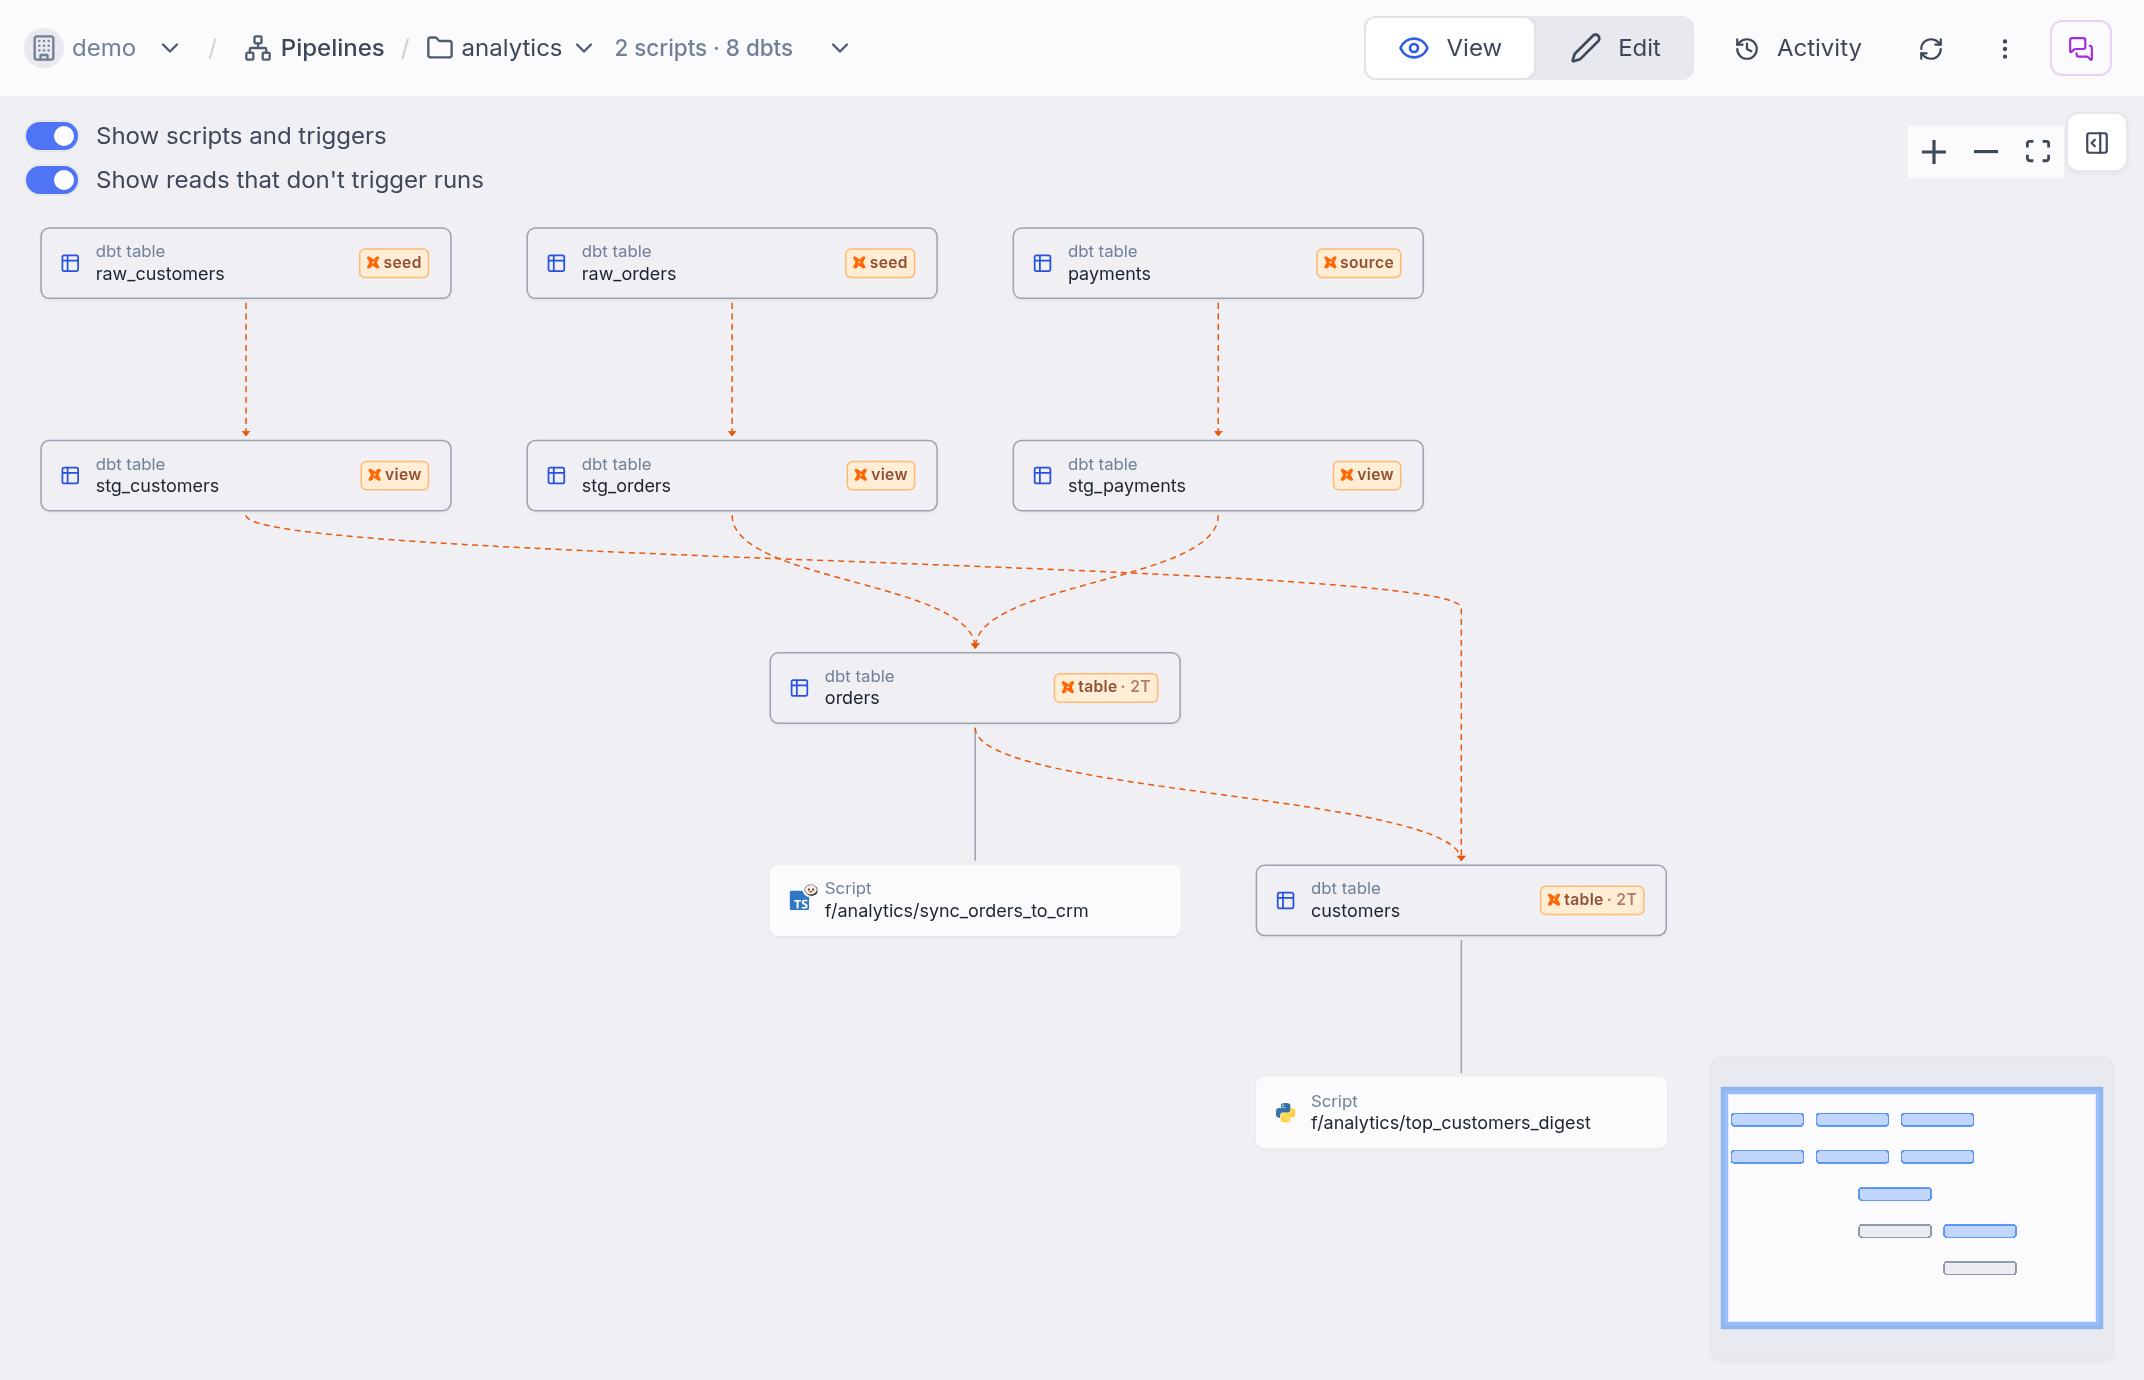
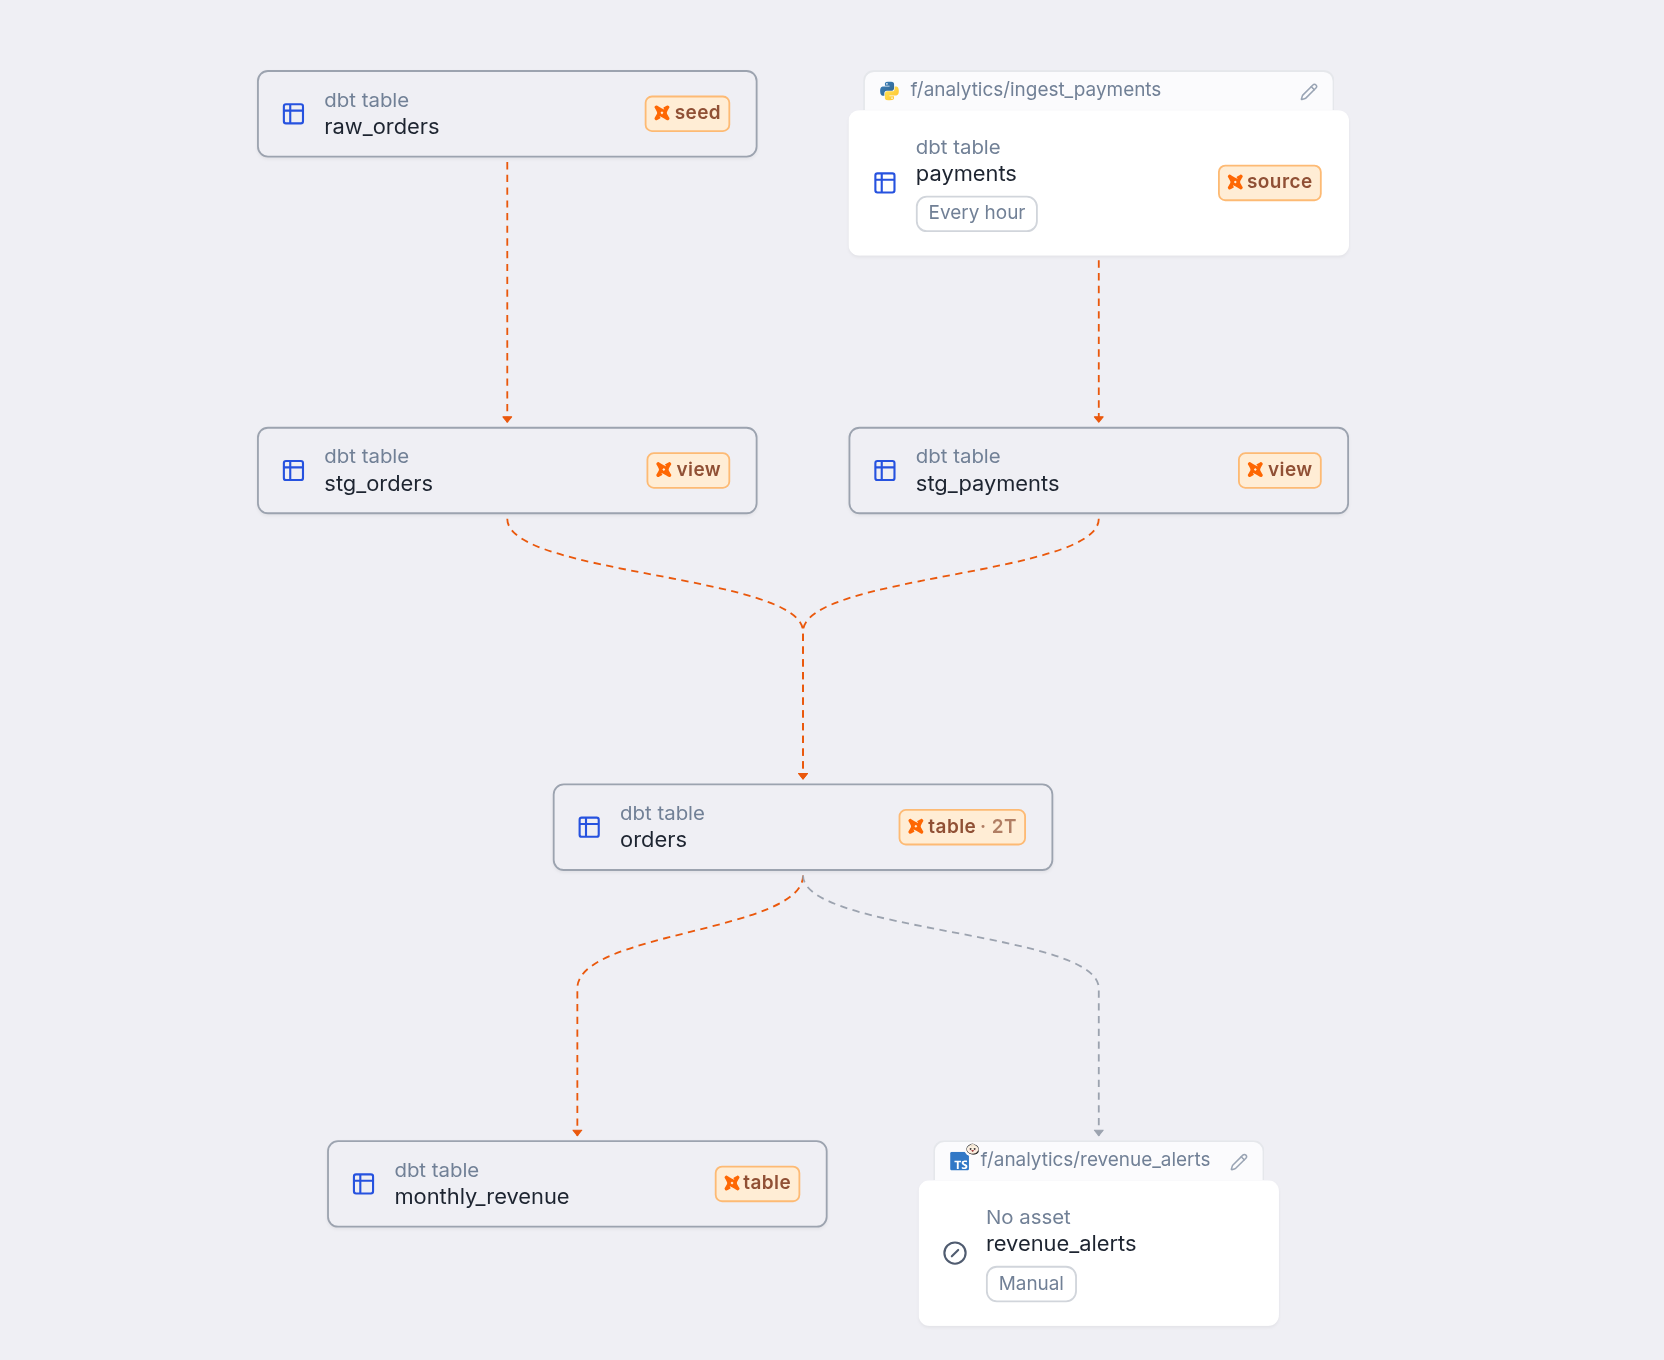
Expand Windmill section: retry state, asset graph, warehouse resource

diff --git a/website/docs/docs/deploy/deployment-tools.md b/website/docs/docs/deploy/deployment-tools.md
@@ -141,7 +141,7 @@ If your organization uses [Prefect](https://www.prefect.io/), the way you will r
 
 ## Windmill
 
-If your organization uses [Windmill](https://www.windmill.dev/), you can run a <Constant name="core" /> or <Constant name="core_v2" /> project as a Windmill script. The project is copied in unmodified and runs on your own workers as a single `dbt build`, started from a schedule, a webhook, or a step in a Windmill flow. To import an existing project with the Windmill CLI:
+If your organization uses [Windmill](https://www.windmill.dev/), you can run a <Constant name="core" /> or <Constant name="core_v2" /> project as a Windmill script. The project is copied in unmodified and runs on your own workers as a single `dbt build`, started from a schedule, a webhook, or a step in a Windmill flow. The warehouse connection is a Windmill resource configured once per workspace, so the project needs no `profiles.yml` of its own. To import an existing project with the Windmill CLI:
 
 ```shell
 mkdir -p f/analytics/analytics__dbt
@@ -149,13 +149,17 @@ cp -r my-dbt-project/. f/analytics/analytics__dbt/
 wmill sync push
 ```
 
-The run page shows each model's status on the project graph, with its timing and row count when the run ends. On a failed run, **Resume this run** fills in a `dbt retry` that rebuilds only the failed and skipped nodes. Models, seeds, snapshots, and sources also appear on Windmill's asset graph, next to the Python, TypeScript, and DuckDB scripts that read them.
+The run page shows each model's status on the project graph, with its timing and row count when the run ends. Windmill stores the last run's `run_results.json` in its database, so on a failed run **Resume this run** starts a `dbt retry` that rebuilds only the failed and skipped nodes, and the retry can run on a different worker.
+
+Models, seeds, snapshots, and sources appear on Windmill's asset graph, keyed by warehouse, schema, and relation name, so a table that one project builds and another reads as a source is a single node. Python, TypeScript, and DuckDB scripts that read a model, or that declare they write a source table, appear on the same graph.
 
 <DocCarousel slidesPerView={1}>
 
-<Lightbox src="/img/docs/running-a-dbt-project/windmill_dbt_run_graph.png" alt="Windmill run page for a dbt build: the project graph with each model's status and row count, and a result table reading 11 passed, 1 failed, 1 skipped of 13 nodes" title="dbt run in Windmill, with a failed model and the model it skipped"/>
+<Lightbox src="/img/docs/running-a-dbt-project/windmill_dbt_run_failed.png" alt="Windmill run page for a failed dbt build. A banner reads 1 failed, 3 skipped, with a Resume this run button. On the project graph, raw_orders and stg_orders succeeded and stg_payments failed. The result table shows the database error for stg_payments, and orders and its two tests as skipped." title="Failed dbt build: stg_payments failed, orders and its tests skipped"/>
 
-<Lightbox src="/img/docs/running-a-dbt-project/windmill_dbt_asset_graph.png" alt="Windmill asset graph of a folder: dbt seeds, a source, staging views, and table models connected by ref() lineage, with a TypeScript script reading the orders model and a Python script reading the customers model" title="dbt models and the scripts that read them on the Windmill asset graph"/>
+<Lightbox src="/img/docs/running-a-dbt-project/windmill_dbt_run_retry.png" alt="Windmill run page for the dbt retry started by Resume this run. The graph shows payments, stg_payments, and orders. The result table reads 4 passed of 4 nodes, retry, dbt-core-1x 1.12.6: stg_payments, orders, and the two tests on orders." title="The dbt retry started by Resume this run: 4 of 4 nodes rebuilt"/>
+
+<Lightbox src="/img/docs/running-a-dbt-project/windmill_dbt_asset_graph.png" alt="Windmill asset graph of a folder with two dbt projects. The payments source node is labeled with the Python script f/analytics/ingest_payments that declares it writes the table, on an hourly schedule. raw_orders and payments feed stg_orders and stg_payments, which feed orders. orders feeds monthly_revenue, built by a second project, and is read by the TypeScript script f/analytics/revenue_alerts." title="Asset graph: a Python script writes the payments source; a second dbt project and a TypeScript script read orders"/>
 
 </DocCarousel>
 
